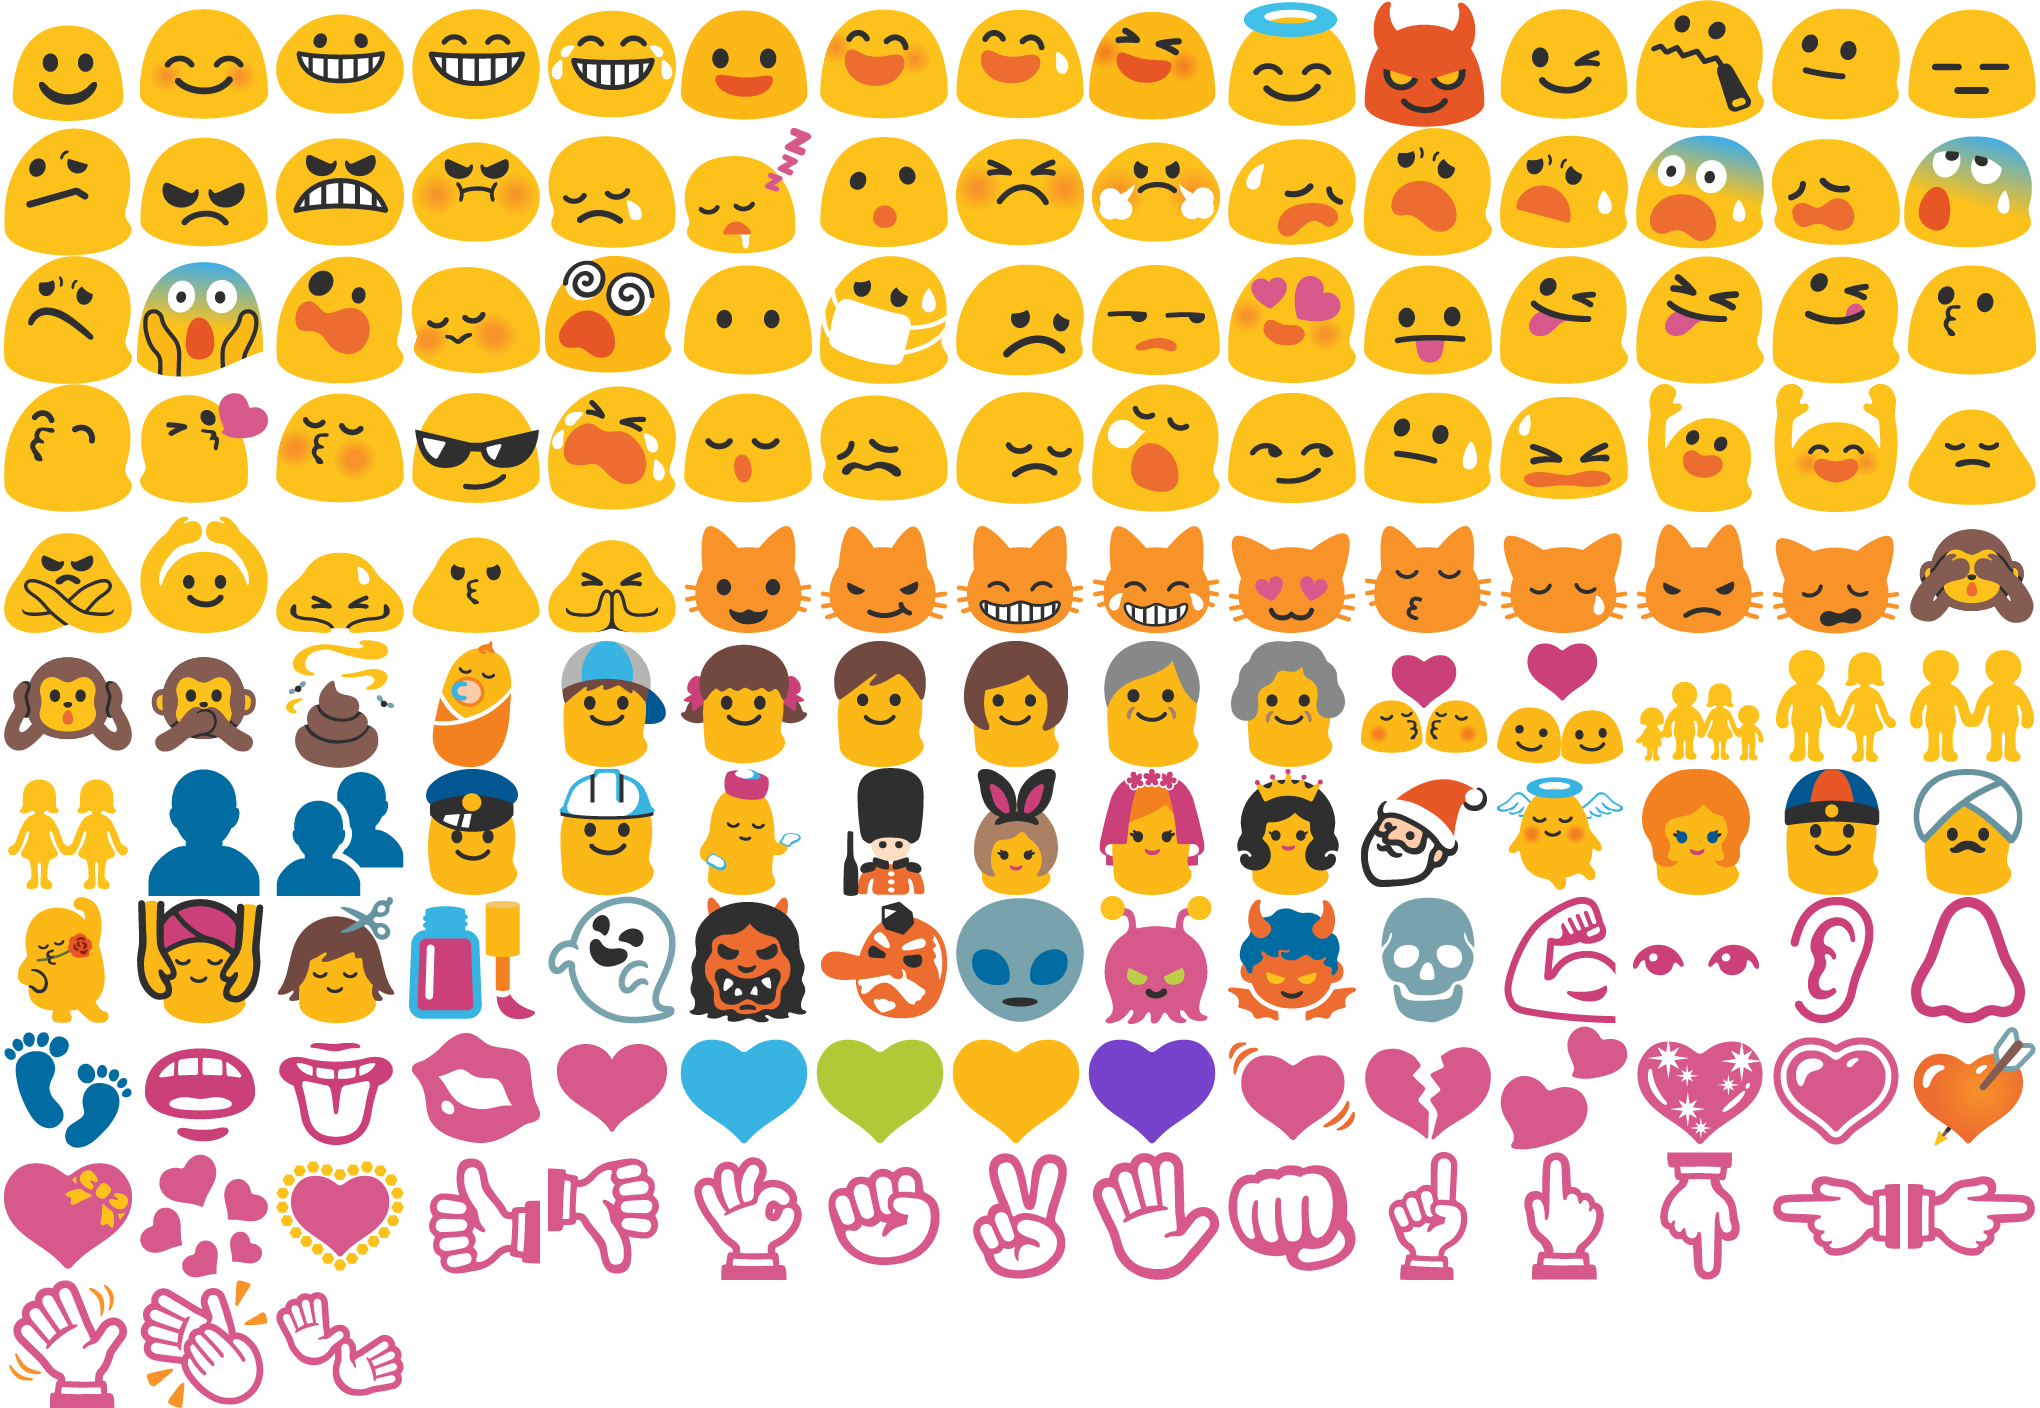
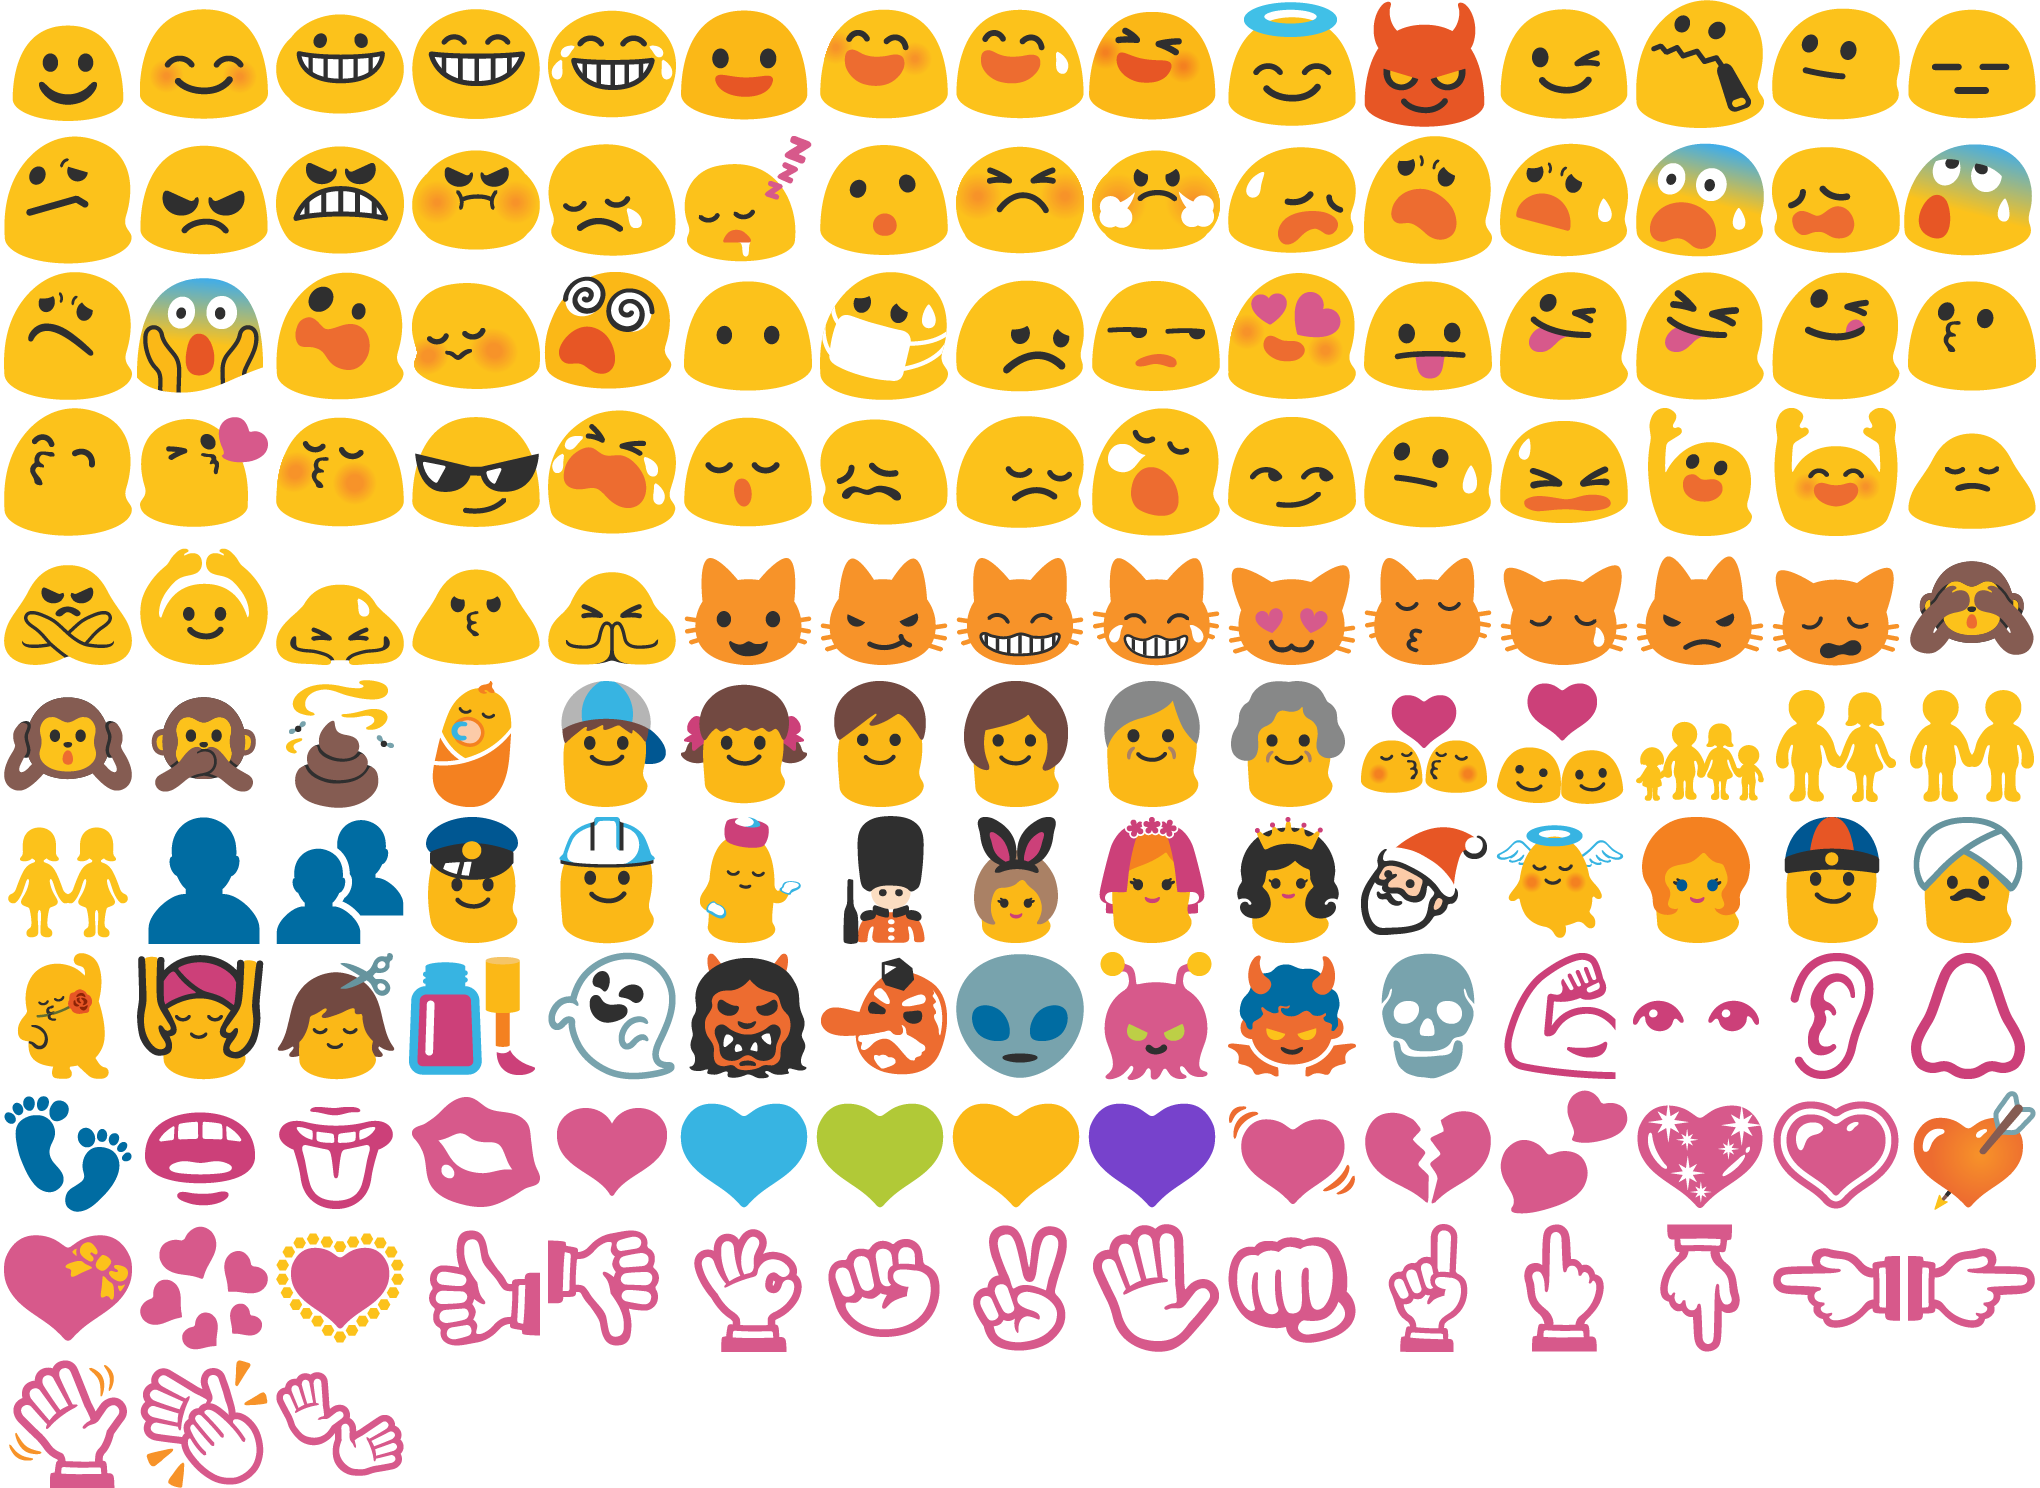
Add vertical spacing to emoji sprites
Downsampling on low-dpi devices led to 1px bleeds between
sprite areas.

Fixes #3203
Closes #3206
// FREEBIE

diff --git a/src/org/thoughtcrime/securesms/components/emoji/EmojiProvider.java b/src/org/thoughtcrime/securesms/components/emoji/EmojiProvider.java
@@ -50,11 +50,13 @@ public class EmojiProvider {
   public static final double EMOJI_SMALL      = 0.50;
   public static final int    EMOJI_RAW_HEIGHT = 128;
   public static final int    EMOJI_RAW_WIDTH  = 136;
+  public static final int    EMOJI_VERT_PAD   = 8;
   public static final int    EMOJI_PER_ROW    = 15;
 
   private final Context context;
   private final double  drawWidth;
   private final double  drawHeight;
+  private final double  verticalPad;
   private final Handler handler = new Handler(Looper.getMainLooper());
 
   public static EmojiProvider getInstance(Context context) {
@@ -71,9 +73,10 @@ public class EmojiProvider {
   private EmojiProvider(Context context) {
     int[] pages = ResUtil.getResourceIds(context, R.array.emoji_categories);
 
-    this.context    = context.getApplicationContext();
-    this.drawHeight = context.getResources().getDimension(R.dimen.emoji_drawer_size);
-    this.drawWidth  = drawHeight * ((double)EMOJI_RAW_WIDTH) / EMOJI_RAW_HEIGHT;
+    this.context     = context.getApplicationContext();
+    this.drawHeight  = context.getResources().getDimension(R.dimen.emoji_drawer_size);
+    this.drawWidth   = drawHeight * ((double)EMOJI_RAW_WIDTH) / EMOJI_RAW_HEIGHT;
+    this.verticalPad = EMOJI_VERT_PAD * drawHeight / EMOJI_RAW_HEIGHT;
     Log.w(TAG, "draw size: " + drawWidth + "x" + drawHeight);
     for (int i = 0; i < pages.length; i++) {
       final EmojiPageBitmap page = new EmojiPageBitmap(i);
@@ -156,9 +159,9 @@ public class EmojiProvider {
 
       canvas.drawBitmap(bmp,
                         new Rect((int)(row_index * width),
-                                 (int)(row * height),
+                                 (int)(row * height + row * verticalPad),
                                  (int)((row_index + 1) * width),
-                                 (int)((row + 1) * height)),
+                                 (int)((row + 1) * height + row * verticalPad)),
                         b,
                         paint);
     }
